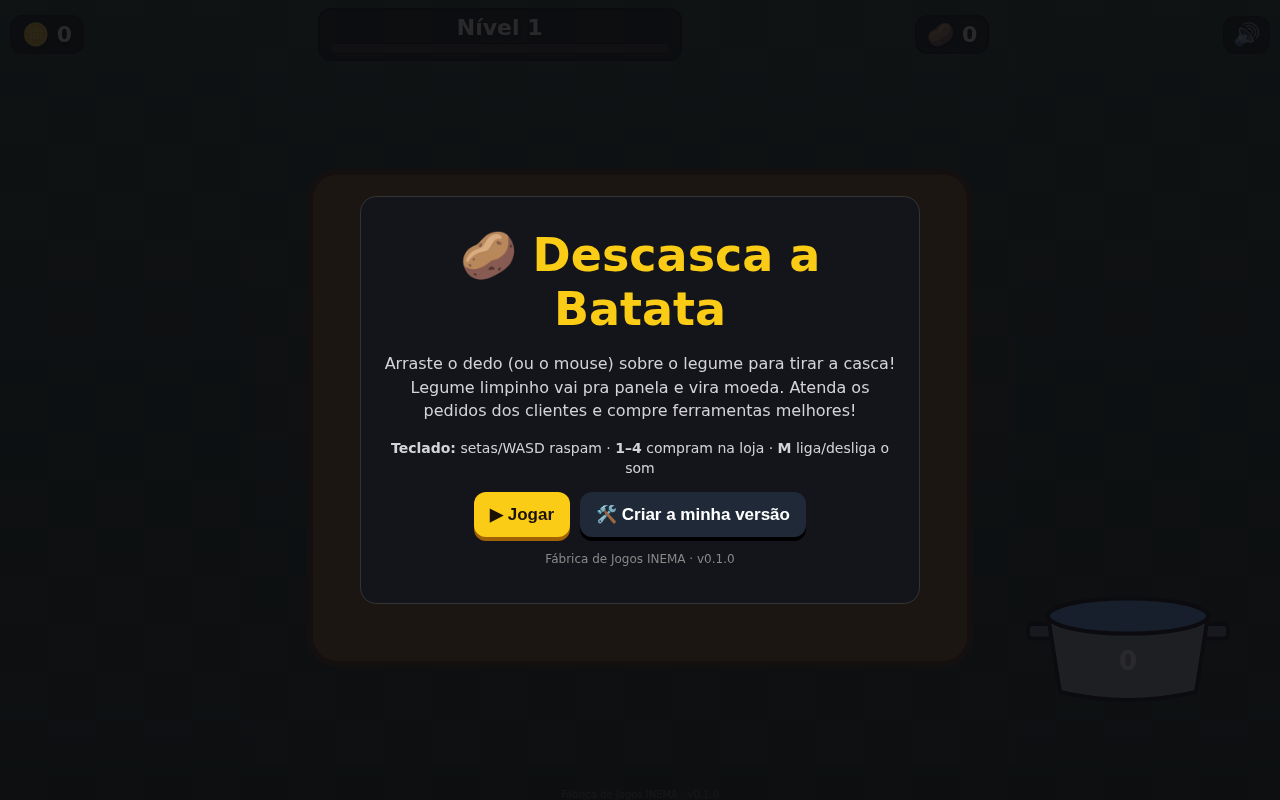
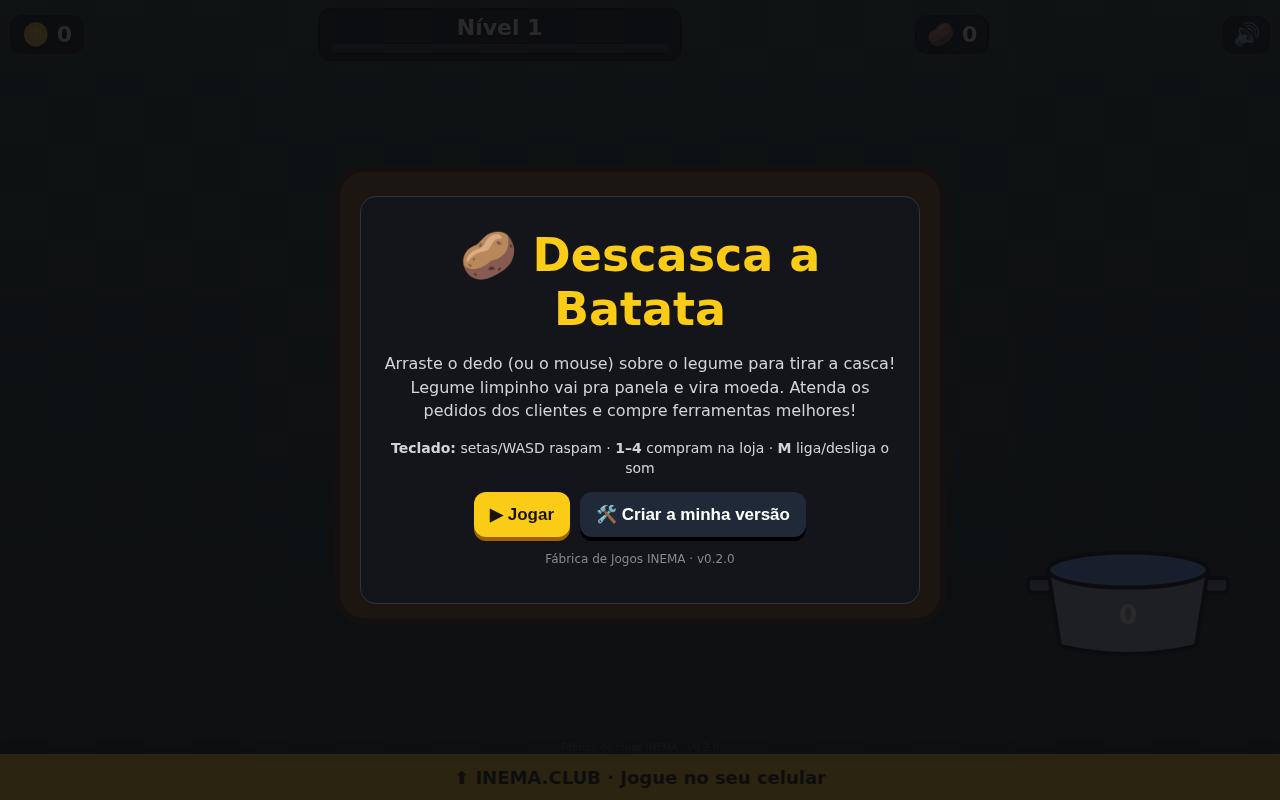
batata v0.2.0: painel INEMA.CLUB + QR embaixo do jogo

Changed region(s): [[0.0, 0.9375, 1.0, 1.0], [0.8125, 0.6875, 0.9375, 0.75], [0.875, 0.8125, 0.9062, 0.8438]]

diff --git a/10-fabrica-de-jogos/jogos/descasca-a-batata/index.html b/10-fabrica-de-jogos/jogos/descasca-a-batata/index.html
@@ -6,9 +6,11 @@
 <title>Descasca a Batata — Fábrica de Jogos INEMA</title>
 <style>
   :root { --amarelo:#FACC15; --preto:#0c0c10; --texto:#f5f5f5 }
-  html,body { margin:0; height:100%; background:var(--preto); color:var(--texto); overflow:hidden;
-              touch-action:none; user-select:none; -webkit-user-select:none; font-family:system-ui,-apple-system,"Segoe UI",sans-serif }
-  canvas { display:block; width:100vw; height:100vh }
+  /* a página rola (para mostrar o painel INEMA.CLUB embaixo), mas o canvas fica fixo e trava o gesto de arrastar */
+  html { overflow-x:hidden; overflow-y:auto; overscroll-behavior:none }
+  html,body { margin:0; background:var(--preto); color:var(--texto);
+              touch-action:pan-y; user-select:none; -webkit-user-select:none; font-family:system-ui,-apple-system,"Segoe UI",sans-serif }
+  #c { display:block; position:fixed; inset:0; width:100vw; height:100vh; touch-action:none }
   /* barra do topo: moedas, nível + XP, contador e som */
   #hud { position:fixed; top:8px; left:10px; right:10px; display:flex; align-items:center; justify-content:space-between; gap:8px;
          font-weight:800; font-size:clamp(14px,2.4vw,22px); text-shadow:0 2px 4px #000; pointer-events:none }
@@ -29,7 +31,7 @@
   #missao.pop { animation:pop .5s }
   @keyframes pop { 0%{transform:translateX(-50%) scale(1)} 40%{transform:translateX(-50%) scale(1.12)} 100%{transform:translateX(-50%) scale(1)} }
   /* loja embaixo */
-  #loja { position:fixed; left:8px; right:8px; bottom:16px; display:flex; gap:8px; justify-content:center }
+  #loja { position:fixed; left:8px; right:8px; bottom:62px; display:flex; gap:8px; justify-content:center }
   .btn { background:var(--amarelo); color:#1a1206; border:0; border-radius:12px; font-weight:800;
          padding:12px 16px; font-size:clamp(13px,2vw,17px); cursor:pointer; box-shadow:0 4px 0 #a16207 }
   .btn:disabled { background:#555; color:#bbb; box-shadow:none }
@@ -45,7 +47,22 @@
   #aviso { position:fixed; left:50%; top:30%; transform:translate(-50%,-50%); background:#000c; padding:10px 18px; border-radius:14px;
            border:3px solid var(--amarelo); font-weight:900; pointer-events:none; opacity:0; transition:opacity .3s; text-align:center;
            font-size:clamp(18px,3.6vw,30px); z-index:4; max-width:90vw }
-  #rodape { position:fixed; left:0; right:0; bottom:0; text-align:center; font-size:10px; color:#666; pointer-events:none }
+  #rodape { position:fixed; left:0; right:0; bottom:47px; text-align:center; font-size:10px; color:#666; pointer-events:none }
+  /* ---------- painel INEMA.CLUB embaixo do jogo (deslize a tela para cima) ---------- */
+  #rolagem { position:relative; z-index:4; pointer-events:none }
+  #espaco { height:calc(100vh - 46px); height:calc(100dvh - 46px) }
+  #painel { pointer-events:auto; background:var(--preto); touch-action:pan-y; text-align:center; padding-bottom:28px }
+  #puxador { display:block; width:100%; height:46px; border:0; background:var(--amarelo); color:#1a1206; cursor:pointer;
+             font:800 clamp(14px,3.8vw,18px)/46px Sora,system-ui,sans-serif; box-shadow:0 -4px 14px #0008 }
+  #painel .faixa-g { background:var(--amarelo); color:#1a1206; font:800 clamp(24px,7vw,44px)/1.15 Sora,system-ui,sans-serif;
+                     padding:22px 16px 26px; border-top:4px solid var(--preto) }
+  #painel .faixa-g b { display:inline-block; background:var(--preto); color:var(--amarelo); padding:2px 14px; border-radius:10px; margin-top:8px }
+  #painel .qr-g { display:inline-block; background:#fff; color:#111; border-radius:16px; padding:14px 14px 10px; margin:22px 16px 10px }
+  #painel .qr-g svg { width:min(64vw,260px); height:auto; display:block }
+  #painel .qr-g p { margin:8px 0 0; font-weight:800 }
+  #painel .acoes-p { display:flex; gap:10px; justify-content:center; flex-wrap:wrap; margin:12px 16px }
+  #painel .txt-p { color:#d4d4d8; max-width:520px; margin:10px auto 0; padding:0 16px; line-height:1.5 }
+  #painel a { color:var(--amarelo) }
   .hidden { display:none !important }
   pre { text-align:left; background:#0b0b0f; padding:10px; border-radius:10px; overflow:auto; max-height:40vh; font-size:12px; white-space:pre-wrap }
 </style>
@@ -68,12 +85,28 @@
   <button class="btn" id="b-vel"></button>
   <button class="btn" id="b-valor"></button>
 </div>
-<div id="rodape">Fábrica de Jogos INEMA · v0.1.0</div>
+<div id="rodape">Fábrica de Jogos INEMA · v0.2.0</div>
+<div id="rolagem">
+  <div id="espaco"></div>
+  <div id="painel">
+    <button id="puxador">⬆ INEMA.CLUB · Jogue no seu celular</button>
+    <div class="faixa-g">Aprenda a criar jogos com IA<br>de graça<br><b>INEMA.CLUB</b></div>
+    <div class="qr-g"><div id="qr-painel"></div><p>📱 Jogue no seu celular</p></div>
+    <div class="acoes-p">
+      <button class="btn" id="p-baixar">⬇ Baixar o jogo</button>
+      <button class="btn" id="p-voltar">⬆ Voltar ao jogo</button>
+    </div>
+    <p class="txt-p">Baixe o jogo, abra num editor de texto e mude o <b>CONFIG</b>. Depois peça para uma IA criar legumes, ferramentas e pedidos de clientes novos.
+      Mais jogos na <a href="../../">Fábrica de Jogos INEMA</a> · cursos grátis em <a href="https://inema.club" target="_blank" rel="noopener">inema.club</a></p>
+  </div>
+</div>
+<!-- QR code com o endereço do jogo (vem do arquivo qr-jogo.svg; fica aqui dentro para funcionar sem internet) -->
+<template id="tpl-qr"><svg version="1.1" viewBox="0 0 41 41" xmlns="http://www.w3.org/2000/svg"><path d="M2,2H3V3H2zM3,2H4V3H3zM4,2H5V3H4zM5,2H6V3H5zM6,2H7V3H6zM7,2H8V3H7zM8,2H9V3H8zM12,2H13V3H12zM14,2H15V3H14zM15,2H16V3H15zM16,2H17V3H16zM17,2H18V3H17zM21,2H22V3H21zM22,2H23V3H22zM25,2H26V3H25zM30,2H31V3H30zM32,2H33V3H32zM33,2H34V3H33zM34,2H35V3H34zM35,2H36V3H35zM36,2H37V3H36zM37,2H38V3H37zM38,2H39V3H38zM2,3H3V4H2zM8,3H9V4H8zM11,3H12V4H11zM12,3H13V4H12zM14,3H15V4H14zM16,3H17V4H16zM17,3H18V4H17zM18,3H19V4H18zM22,3H23V4H22zM23,3H24V4H23zM27,3H28V4H27zM29,3H30V4H29zM32,3H33V4H32zM38,3H39V4H38zM2,4H3V5H2zM4,4H5V5H4zM5,4H6V5H5zM6,4H7V5H6zM8,4H9V5H8zM10,4H11V5H10zM11,4H12V5H11zM13,4H14V5H13zM14,4H15V5H14zM15,4H16V5H15zM16,4H17V5H16zM18,4H19V5H18zM20,4H21V5H20zM23,4H24V5H23zM24,4H25V5H24zM25,4H26V5H25zM26,4H27V5H26zM28,4H29V5H28zM32,4H33V5H32zM34,4H35V5H34zM35,4H36V5H35zM36,4H37V5H36zM38,4H39V5H38zM2,5H3V6H2zM4,5H5V6H4zM5,5H6V6H5zM6,5H7V6H6zM8,5H9V6H8zM10,5H11V6H10zM11,5H12V6H11zM13,5H14V6H13zM14,5H15V6H14zM19,5H20V6H19zM22,5H23V6H22zM24,5H25V6H24zM26,5H27V6H26zM27,5H28V6H27zM30,5H31V6H30zM32,5H33V6H32zM34,5H35V6H34zM35,5H36V6H35zM36,5H37V6H36zM38,5H39V6H38zM2,6H3V7H2zM4,6H5V7H4zM5,6H6V7H5zM6,6H7V7H6zM8,6H9V7H8zM10,6H11V7H10zM11,6H12V7H11zM13,6H14V7H13zM15,6H16V7H15zM20,6H21V7H20zM21,6H22V7H21zM22,6H23V7H22zM23,6H24V7H23zM25,6H26V7H25zM27,6H28V7H27zM30,6H31V7H30zM32,6H33V7H32zM34,6H35V7H34zM35,6H36V7H35zM36,6H37V7H36zM38,6H39V7H38zM2,7H3V8H2zM8,7H9V8H8zM10,7H11V8H10zM12,7H13V8H12zM14,7H15V8H14zM16,7H17V8H16zM18,7H19V8H18zM22,7H23V8H22zM23,7H24V8H23zM26,7H27V8H26zM27,7H28V8H27zM28,7H29V8H28zM29,7H30V8H29zM32,7H33V8H32zM38,7H39V8H38zM2,8H3V9H2zM3,8H4V9H3zM4,8H5V9H4zM5,8H6V9H5zM6,8H7V9H6zM7,8H8V9H7zM8,8H9V9H8zM10,8H11V9H10zM12,8H13V9H12zM14,8H15V9H14zM16,8H17V9H16zM18,8H19V9H18zM20,8H21V9H20zM22,8H23V9H22zM24,8H25V9H24zM26,8H27V9H26zM28,8H29V9H28zM30,8H31V9H30zM32,8H33V9H32zM33,8H34V9H33zM34,8H35V9H34zM35,8H36V9H35zM36,8H37V9H36zM37,8H38V9H37zM38,8H39V9H38zM10,9H11V10H10zM12,9H13V10H12zM17,9H18V10H17zM18,9H19V10H18zM20,9H21V10H20zM23,9H24V10H23zM24,9H25V10H24zM25,9H26V10H25zM28,9H29V10H28zM29,9H30V10H29zM30,9H31V10H30zM2,10H3V11H2zM4,10H5V11H4zM5,10H6V11H5zM6,10H7V11H6zM7,10H8V11H7zM8,10H9V11H8zM14,10H15V11H14zM15,10H16V11H15zM17,10H18V11H17zM19,10H20V11H19zM24,10H25V11H24zM25,10H26V11H25zM26,10H27V11H26zM27,10H28V11H27zM28,10H29V11H28zM29,10H30V11H29zM32,10H33V11H32zM33,10H34V11H33zM34,10H35V11H34zM35,10H36V11H35zM36,10H37V11H36zM2,11H3V12H2zM4,11H5V12H4zM5,11H6V12H5zM6,11H7V12H6zM10,11H11V12H10zM13,11H14V12H13zM14,11H15V12H14zM17,11H18V12H17zM18,11H19V12H18zM20,11H21V12H20zM21,11H22V12H21zM22,11H23V12H22zM24,11H25V12H24zM25,11H26V12H25zM27,11H28V12H27zM30,11H31V12H30zM33,11H34V12H33zM35,11H36V12H35zM36,11H37V12H36zM37,11H38V12H37zM2,12H3V13H2zM4,12H5V13H4zM8,12H9V13H8zM9,12H10V13H9zM14,12H15V13H14zM24,12H25V13H24zM27,12H28V13H27zM28,12H29V13H28zM29,12H30V13H29zM30,12H31V13H30zM33,12H34V13H33zM37,12H38V13H37zM38,12H39V13H38zM2,13H3V14H2zM5,13H6V14H5zM9,13H10V14H9zM10,13H11V14H10zM11,13H12V14H11zM13,13H14V14H13zM15,13H16V14H15zM16,13H17V14H16zM18,13H19V14H18zM21,13H22V14H21zM23,13H24V14H23zM24,13H25V14H24zM25,13H26V14H25zM26,13H27V14H26zM30,13H31V14H30zM31,13H32V14H31zM32,13H33V14H32zM33,13H34V14H33zM34,13H35V14H34zM38,13H39V14H38zM2,14H3V15H2zM7,14H8V15H7zM8,14H9V15H8zM9,14H10V15H9zM10,14H11V15H10zM13,14H14V15H13zM14,14H15V15H14zM15,14H16V15H15zM16,14H17V15H16zM19,14H20V15H19zM26,14H27V15H26zM27,14H28V15H27zM28,14H29V15H28zM31,14H32V15H31zM32,14H33V15H32zM34,14H35V15H34zM35,14H36V15H35zM36,14H37V15H36zM37,14H38V15H37zM38,14H39V15H38zM2,15H3V16H2zM3,15H4V16H3zM6,15H7V16H6zM9,15H10V16H9zM12,15H13V16H12zM14,15H15V16H14zM15,15H16V16H15zM16,15H17V16H16zM18,15H19V16H18zM20,15H21V16H20zM21,15H22V16H21zM22,15H23V16H22zM23,15H24V16H23zM25,15H26V16H25zM26,15H27V16H26zM30,15H31V16H30zM33,15H34V16H33zM2,16H3V17H2zM3,16H4V17H3zM4,16H5V17H4zM5,16H6V17H5zM6,16H7V17H6zM8,16H9V17H8zM9,16H10V17H9zM10,16H11V17H10zM13,16H14V17H13zM14,16H15V17H14zM15,16H16V17H15zM17,16H18V17H17zM20,16H21V17H20zM26,16H27V17H26zM27,16H28V17H27zM28,16H29V17H28zM29,16H30V17H29zM33,16H34V17H33zM34,16H35V17H34zM35,16H36V17H35zM37,16H38V17H37zM38,16H39V17H38zM3,17H4V18H3zM5,17H6V18H5zM6,17H7V18H6zM7,17H8V18H7zM9,17H10V18H9zM12,17H13V18H12zM14,17H15V18H14zM15,17H16V18H15zM16,17H17V18H16zM18,17H19V18H18zM21,17H22V18H21zM23,17H24V18H23zM24,17H25V18H24zM25,17H26V18H25zM26,17H27V18H26zM28,17H29V18H28zM29,17H30V18H29zM30,17H31V18H30zM33,17H34V18H33zM34,17H35V18H34zM5,18H6V19H5zM7,18H8V19H7zM8,18H9V19H8zM9,18H10V19H9zM10,18H11V19H10zM12,18H13V19H12zM15,18H16V19H15zM16,18H17V19H16zM17,18H18V19H17zM18,18H19V19H18zM19,18H20V19H19zM24,18H25V19H24zM27,18H28V19H27zM28,18H29V19H28zM29,18H30V19H29zM31,18H32V19H31zM32,18H33V19H32zM34,18H35V19H34zM36,18H37V19H36zM38,18H39V19H38zM3,19H4V20H3zM5,19H6V20H5zM7,19H8V20H7zM11,19H12V20H11zM12,19H13V20H12zM13,19H14V20H13zM15,19H16V20H15zM16,19H17V20H16zM17,19H18V20H17zM21,19H22V20H21zM22,19H23V20H22zM25,19H26V20H25zM35,19H36V20H35zM37,19H38V20H37zM4,20H5V21H4zM5,20H6V21H5zM6,20H7V21H6zM7,20H8V21H7zM8,20H9V21H8zM12,20H13V21H12zM16,20H17V21H16zM17,20H18V21H17zM18,20H19V21H18zM19,20H20V21H19zM20,20H21V21H20zM22,20H23V21H22zM24,20H25V21H24zM27,20H28V21H27zM28,20H29V21H28zM29,20H30V21H29zM30,20H31V21H30zM31,20H32V21H31zM33,20H34V21H33zM36,20H37V21H36zM37,20H38V21H37zM38,20H39V21H38zM2,21H3V22H2zM4,21H5V22H4zM10,21H11V22H10zM13,21H14V22H13zM14,21H15V22H14zM16,21H17V22H16zM17,21H18V22H17zM22,21H23V22H22zM23,21H24V22H23zM24,21H25V22H24zM28,21H29V22H28zM33,21H34V22H33zM38,21H39V22H38zM5,22H6V23H5zM6,22H7V23H6zM8,22H9V23H8zM9,22H10V23H9zM10,22H11V23H10zM11,22H12V23H11zM13,22H14V23H13zM14,22H15V23H14zM16,22H17V23H16zM17,22H18V23H17zM19,22H20V23H19zM20,22H21V23H20zM21,22H22V23H21zM22,22H23V23H22zM24,22H25V23H24zM26,22H27V23H26zM27,22H28V23H27zM28,22H29V23H28zM29,22H30V23H29zM30,22H31V23H30zM31,22H32V23H31zM32,22H33V23H32zM34,22H35V23H34zM35,22H36V23H35zM36,22H37V23H36zM2,23H3V24H2zM3,23H4V24H3zM4,23H5V24H4zM6,23H7V24H6zM7,23H8V24H7zM10,23H11V24H10zM18,23H19V24H18zM20,23H21V24H20zM21,23H22V24H21zM22,23H23V24H22zM23,23H24V24H23zM25,23H26V24H25zM27,23H28V24H27zM30,23H31V24H30zM35,23H36V24H35zM37,23H38V24H37zM2,24H3V25H2zM4,24H5V25H4zM5,24H6V25H5zM7,24H8V25H7zM8,24H9V25H8zM12,24H13V25H12zM16,24H17V25H16zM17,24H18V25H17zM18,24H19V25H18zM27,24H28V25H27zM28,24H29V25H28zM29,24H30V25H29zM30,24H31V25H30zM31,24H32V25H31zM33,24H34V25H33zM34,24H35V25H34zM35,24H36V25H35zM37,24H38V25H37zM38,24H39V25H38zM4,25H5V26H4zM5,25H6V26H5zM7,25H8V26H7zM9,25H10V26H9zM11,25H12V26H11zM12,25H13V26H12zM17,25H18V26H17zM18,25H19V26H18zM20,25H21V26H20zM22,25H23V26H22zM23,25H24V26H23zM24,25H25V26H24zM28,25H29V26H28zM29,25H30V26H29zM31,25H32V26H31zM33,25H34V26H33zM34,25H35V26H34zM2,26H3V27H2zM3,26H4V27H3zM4,26H5V27H4zM8,26H9V27H8zM9,26H10V27H9zM10,26H11V27H10zM12,26H13V27H12zM13,26H14V27H13zM15,26H16V27H15zM19,26H20V27H19zM24,26H25V27H24zM26,26H27V27H26zM27,26H28V27H27zM28,26H29V27H28zM29,26H30V27H29zM30,26H31V27H30zM31,26H32V27H31zM32,26H33V27H32zM34,26H35V27H34zM36,26H37V27H36zM38,26H39V27H38zM2,27H3V28H2zM3,27H4V28H3zM4,27H5V28H4zM5,27H6V28H5zM10,27H11V28H10zM12,27H13V28H12zM15,27H16V28H15zM17,27H18V28H17zM18,27H19V28H18zM19,27H20V28H19zM20,27H21V28H20zM21,27H22V28H21zM25,27H26V28H25zM27,27H28V28H27zM28,27H29V28H28zM30,27H31V28H30zM33,27H34V28H33zM35,27H36V28H35zM2,28H3V29H2zM6,28H7V29H6zM8,28H9V29H8zM9,28H10V29H9zM12,28H13V29H12zM13,28H14V29H13zM14,28H15V29H14zM15,28H16V29H15zM16,28H17V29H16zM19,28H20V29H19zM22,28H23V29H22zM23,28H24V29H23zM24,28H25V29H24zM26,28H27V29H26zM29,28H30V29H29zM30,28H31V29H30zM31,28H32V29H31zM32,28H33V29H32zM37,28H38V29H37zM38,28H39V29H38zM2,29H3V30H2zM6,29H7V30H6zM9,29H10V30H9zM11,29H12V30H11zM15,29H16V30H15zM16,29H17V30H16zM18,29H19V30H18zM23,29H24V30H23zM24,29H25V30H24zM28,29H29V30H28zM30,29H31V30H30zM31,29H32V30H31zM32,29H33V30H32zM33,29H34V30H33zM35,29H36V30H35zM37,29H38V30H37zM38,29H39V30H38zM2,30H3V31H2zM8,30H9V31H8zM9,30H10V31H9zM13,30H14V31H13zM14,30H15V31H14zM15,30H16V31H15zM16,30H17V31H16zM19,30H20V31H19zM20,30H21V31H20zM22,30H23V31H22zM24,30H25V31H24zM27,30H28V31H27zM28,30H29V31H28zM30,30H31V31H30zM31,30H32V31H31zM32,30H33V31H32zM33,30H34V31H33zM34,30H35V31H34zM35,30H36V31H35zM36,30H37V31H36zM38,30H39V31H38zM10,31H11V32H10zM12,31H13V32H12zM16,31H17V32H16zM21,31H22V32H21zM22,31H23V32H22zM23,31H24V32H23zM25,31H26V32H25zM28,31H29V32H28zM29,31H30V32H29zM30,31H31V32H30zM34,31H35V32H34zM35,31H36V32H35zM2,32H3V33H2zM3,32H4V33H3zM4,32H5V33H4zM5,32H6V33H5zM6,32H7V33H6zM7,32H8V33H7zM8,32H9V33H8zM12,32H13V33H12zM13,32H14V33H13zM14,32H15V33H14zM16,32H17V33H16zM17,32H18V33H17zM20,32H21V33H20zM22,32H23V33H22zM23,32H24V33H23zM26,32H27V33H26zM27,32H28V33H27zM30,32H31V33H30zM32,32H33V33H32zM34,32H35V33H34zM36,32H37V33H36zM37,32H38V33H37zM38,32H39V33H38zM2,33H3V34H2zM8,33H9V34H8zM10,33H11V34H10zM12,33H13V34H12zM13,33H14V34H13zM16,33H17V34H16zM17,33H18V34H17zM21,33H22V34H21zM23,33H24V34H23zM24,33H25V34H24zM26,33H27V34H26zM28,33H29V34H28zM30,33H31V34H30zM34,33H35V34H34zM35,33H36V34H35zM37,33H38V34H37zM38,33H39V34H38zM2,34H3V35H2zM4,34H5V35H4zM5,34H6V35H5zM6,34H7V35H6zM8,34H9V35H8zM10,34H11V35H10zM11,34H12V35H11zM12,34H13V35H12zM13,34H14V35H13zM14,34H15V35H14zM15,34H16V35H15zM17,34H18V35H17zM19,34H20V35H19zM20,34H21V35H20zM25,34H26V35H25zM26,34H27V35H26zM27,34H28V35H27zM29,34H30V35H29zM30,34H31V35H30zM31,34H32V35H31zM32,34H33V35H32zM33,34H34V35H33zM34,34H35V35H34zM36,34H37V35H36zM38,34H39V35H38zM2,35H3V36H2zM4,35H5V36H4zM5,35H6V36H5zM6,35H7V36H6zM8,35H9V36H8zM10,35H11V36H10zM11,35H12V36H11zM12,35H13V36H12zM13,35H14V36H13zM14,35H15V36H14zM15,35H16V36H15zM17,35H18V36H17zM20,35H21V36H20zM21,35H22V36H21zM22,35H23V36H22zM25,35H26V36H25zM31,35H32V36H31zM32,35H33V36H32zM34,35H35V36H34zM36,35H37V36H36zM37,35H38V36H37zM38,35H39V36H38zM2,36H3V37H2zM4,36H5V37H4zM5,36H6V37H5zM6,36H7V37H6zM8,36H9V37H8zM10,36H11V37H10zM17,36H18V37H17zM18,36H19V37H18zM20,36H21V37H20zM22,36H23V37H22zM24,36H25V37H24zM28,36H29V37H28zM30,36H31V37H30zM37,36H38V37H37zM38,36H39V37H38zM2,37H3V38H2zM8,37H9V38H8zM11,37H12V38H11zM14,37H15V38H14zM15,37H16V38H15zM16,37H17V38H16zM18,37H19V38H18zM22,37H23V38H22zM23,37H24V38H23zM24,37H25V38H24zM25,37H26V38H25zM29,37H30V38H29zM30,37H31V38H30zM31,37H32V38H31zM32,37H33V38H32zM34,37H35V38H34zM38,37H39V38H38zM2,38H3V39H2zM3,38H4V39H3zM4,38H5V39H4zM5,38H6V39H5zM6,38H7V39H6zM7,38H8V39H7zM8,38H9V39H8zM10,38H11V39H10zM11,38H12V39H11zM12,38H13V39H12zM13,38H14V39H13zM18,38H19V39H18zM19,38H20V39H19zM20,38H21V39H20zM21,38H22V39H21zM22,38H23V39H22zM24,38H25V39H24zM25,38H26V39H25zM26,38H27V39H26zM27,38H28V39H27zM28,38H29V39H28zM31,38H32V39H31zM34,38H35V39H34zM35,38H36V39H35zM36,38H37V39H36zM37,38H38V39H37zM38,38H39V39H38z" id="qr-path" fill="#000000" fill-opacity="1" fill-rule="nonzero" stroke="none" /></svg></template>
 <div id="tela"><div class="caixa" id="tela-conteudo"></div></div>
 
 <script>
 /* =====================================================================
-   DESCASCA A BATATA — Fábrica de Jogos INEMA (versão 0.1.0)
+   DESCASCA A BATATA — Fábrica de Jogos INEMA (versão 0.2.0)
    ---------------------------------------------------------------------
    QUER CRIAR A SUA VERSÃO? Comece mudando os valores do CONFIG abaixo.
    Salve o arquivo e abra de novo no navegador para ver o efeito.
@@ -152,10 +185,16 @@ const CONFIG = {
 };
 /* ===================== daqui para baixo é o motor ===================== */
 
-const VERSAO = "0.1.0";
+const VERSAO = "0.2.0";
 const FONTE_HTML = "<!doctype html>\n" + document.documentElement.outerHTML;   // cópia do jogo para "Baixar"
 const cv = document.getElementById("c"), ctx = cv.getContext("2d");
 const $ = id => document.getElementById(id);
+const QR_SVG = $("tpl-qr").innerHTML;           // o desenho do QR code (fica no <template> lá em cima)
+// painel embaixo do jogo: o puxador amarelo sobe o painel; "Voltar ao jogo" desce
+$("qr-painel").innerHTML = QR_SVG;
+$("puxador").onclick = () => scrollTo({ top: $("painel").offsetTop, behavior: "smooth" });
+$("p-voltar").onclick = () => scrollTo({ top: 0, behavior: "smooth" });
+$("p-baixar").onclick = () => baixar();
 const params = new URLSearchParams(location.search);
 const DEMO = params.has("demo");          // ?demo=1 → o jogo descasca sozinho (vitrine do estande)
 const CHAVE = "descasca-batata-v1";       // nome do save no localStorage
@@ -176,7 +215,7 @@ function redimensiona() {
   LW = innerWidth; LH = innerHeight;
   cv.width = LW * dpr; cv.height = LH * dpr;
   const deitado = LW > LH;
-  const topo = deitado ? Math.min(150, LH * 0.17) : 140, baixo = 100;
+  const topo = deitado ? Math.min(150, LH * 0.17) : 140, baixo = 146;   // embaixo: loja + faixa INEMA.CLUB (46 px)
   const pr = Math.max(42, Math.min(80, Math.min(LW, LH) * 0.12));
   const altura = LH - topo - baixo - (deitado ? 0 : pr * 0.9);   // no celular em pé, a panela fica embaixo
   const S = Math.min(LW * 0.78, altura * 0.78, 520);
